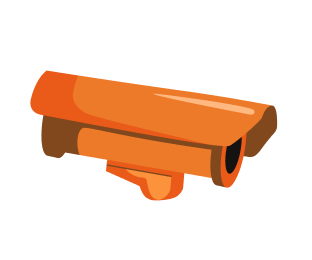
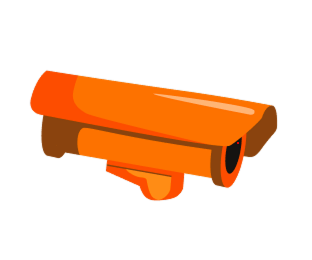
Ajustar lógica e estilos do cabeçote da câmera na página de login do Heimdall

Changed region(s): [[0.0865, 0.2769, 0.8654, 0.7692]]

diff --git a/themes/src/main/resources/theme/heimdall/login/resources/js/camera-head.js b/themes/src/main/resources/theme/heimdall/login/resources/js/camera-head.js
@@ -1,5 +1,6 @@
 (() => {
-    const TILT_LIMIT_DEG = 25;
+    const TILT_LIMIT_UP_DEG = 25;
+    const TILT_LIMIT_DOWN_DEG = 45;
     const HEAD_WIDTH = 312;
     const HEAD_HEIGHT = 260;
 
@@ -47,8 +48,8 @@
             ) * 180 / Math.PI;
 
             const tilt = Math.max(
-                -TILT_LIMIT_DEG,
-                Math.min(TILT_LIMIT_DEG, angle)
+                -TILT_LIMIT_UP_DEG,
+                Math.min(TILT_LIMIT_DOWN_DEG, angle)
             );
 
             page.style.setProperty(

diff --git a/themes/src/main/resources/theme/heimdall/login/resources/css/custom.css b/themes/src/main/resources/theme/heimdall/login/resources/css/custom.css
@@ -177,9 +177,12 @@
     transition: transform 120ms ease-out;
 }
 
-/* .login-pf-page:has(#password:focus)::after {
+.login-pf-page:has(#password:focus)::after {
+    top: calc(var(--camera-head-top) - 24px);
+    left: calc(var(--camera-head-left) - 8px);
     background-image: url('../img/camera-off.png');
-} */
+    transform: rotate(75deg);
+}
 
 @media (max-width: 767px) {
     .login-pf-page::before,
